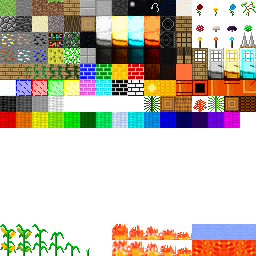
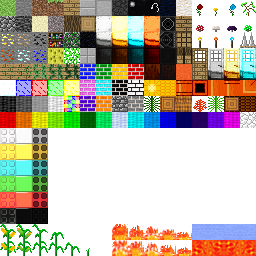
Add 12 new blocks from atlas edits, colored-glass per-pixel alpha + two-pass depth fix, chunk-border remesh fix
New blocks (blocks.json, now 117 total):
- mosaic_glass (4,6), purple/orange/cobble/gray bricks, cobbled_quartz
- 6 plastic blocks with per-face top/side/bottom tiles

Colored glass (translucent flag):
- mesher encodes translucent glass alpha as -200 sentinel (vs -100 regular glass)
- glass FRAME pass (cutout, depth-write ON) occludes water behind opaque pixels
- WATER pass shows through panes
- new _translucentPipeline TINT pass (blend, no depth write, after water) paints
  the semi-transparent glass pixels over the water behind it
- fixes: water over same-chunk glass, then water invisible behind glass (my
  overcorrection), now water visible through panes + tint over water

Chunk-border edit remesh:
- RequestImmediateRemesh now enqueues all 8 flagged dirty neighbours so border
  faces update instantly on break/place instead of waiting for re-stream

diff --git a/Renderer/VeldridRenderer.cs b/Renderer/VeldridRenderer.cs
@@ -41,6 +41,11 @@ namespace CubeApp.Renderer
         // blocking it from ever drawing (which made border water walls render as ghosty
         // see-through when their chunk happened to draw before the terrain behind).
         private Pipeline _transparentPipeline;
+        // Translucent tint pass (colored glass): drawn AFTER water with depth-write OFF. Renders
+        // only the semi-transparent pixels of colored-glass faces (sentinel alpha ~ -200), blending
+        // the glass tint over whatever is behind it - so water behind glass stays visible through
+        // the transparent panes while the opaque frames (drawn in the glass pass) still occlude.
+        private Pipeline _translucentPipeline;
         private Pipeline _highlightPipeline;
         private DeviceBuffer _highlightVertexBuffer;
         private DeviceBuffer _highlightIndexBuffer;
@@ -693,7 +698,9 @@ namespace CubeApp.Renderer
             // E/W 0.6, N/S 0.8) - NOT the mesher's Shade, which bakes in the tiny chunk's simulated
             // light that attenuates by the block's y position and leaves partial shapes looking dark.
             float shade = FaceIconShade(f.Normal);
-            bool cutout = f.Alpha < 0f;       // cross plants / glass: per-pixel sprite alpha
+            // Cutout = per-pixel sprite alpha (cross plants, glass, and translucent colored glass
+            // sentinel -200) so the icon shows the PNG's real transparency.
+            bool cutout = f.Alpha < 0f;
             bool transparent = !cutout && f.Alpha < 1f; // water etc.
             int spanU = Math.Max(1, f.TileWidth);
             int spanV = Math.Max(1, f.TileHeight);
@@ -975,10 +982,12 @@ void main() {
                 Outputs = _sc.Framebuffer.OutputDescription
             });
 
-            // Glass: cutout rules (0.5 alpha discard, no blend) but with depth-write ON so the
-            // frames occlude things drawn later (water behind glass can't paint over the frame),
-            // while the discarded panes leave no depth - far glass/water still shows through the
-            // clear panes. BACK culling so inside faces never render through the panes.
+            // Glass frame pass: cutout rules (0.5 alpha discard, no blend) with depth-write ON so
+            // the opaque frames occlude things drawn later (water behind glass can't paint over the
+            // frame), while the discarded panes leave no depth - water shows through the clear
+            // panes. This pass handles BOTH regular glass and the opaque frame pixels of translucent
+            // colored glass (whose sentinel vColor.a ~ -200 still discards tex.a < 0.5 normally).
+            // BACK culling so inside faces never render through the panes.
             _glassPipeline = factory.CreateGraphicsPipeline(new GraphicsPipelineDescription()
             {
                 BlendState = BlendStateDescription.SingleDisabled,
@@ -987,6 +996,47 @@ void main() {
                 PrimitiveTopology = PrimitiveTopology.TriangleList,
                 ResourceLayouts = new[] { _projViewLayout, _textureLayout, _fogLayout },
                 ShaderSet = cutoutShaderSet,
+                Outputs = _sc.Framebuffer.OutputDescription
+            });
+
+            // Translucent tint pass (colored glass): drawn AFTER water. Only faces with the -200
+            // sentinel (translucent) render here, and only their semi-transparent pixels (tex.a <
+            // 0.5, which the frame pass discarded) - blended per-pixel with depth-write OFF, so the
+            // glass tint paints OVER whatever is behind it (water, terrain) without blocking it.
+            // Regular glass faces (sentinel -100) are culled by the shader and never reach here.
+            string tintFsCode = @"#version 450
+layout(location=0) in vec2 vLocalUV;
+layout(location=1) in vec4 vTileRect;
+layout(location=2) in vec4 vColor;
+layout(location=3) in vec3 vWorldPos;
+layout(set=1, binding=0) uniform sampler2D uAtlas;
+layout(set=2, binding=0) uniform FogParams {
+    vec4 fogColor;
+    vec2 fogRange;
+    vec4 cameraPos;
+};
+layout(location=0) out vec4 outColor;
+void main() {
+    if (vColor.a > -150.0) discard; // only translucent (colored) glass - sentinel ~ -200
+    vec2 atlasUV = fract(vLocalUV) * vTileRect.zw + vTileRect.xy;
+    vec4 tex = texture(uAtlas, atlasUV);
+    if (tex.a >= 0.5) discard;      // opaque frame pixels already drawn by the glass pass
+    outColor = vec4(tex.rgb * vColor.rgb, tex.a);
+    float dist = length(vWorldPos - cameraPos.xyz);
+    float fog = clamp((fogRange.y - dist) / max(fogRange.y - fogRange.x, 1e-5), 0.0, 1.0);
+    outColor.rgb = mix(fogColor.rgb, outColor.rgb, fog);
+}";
+            var tintFsSpirv = SpirvCompilation.CompileGlslToSpirv(tintFsCode, "main", ShaderStages.Fragment, GlslCompileOptions.Default);
+            var tintShaders = factory.CreateFromSpirv(vsDesc, new ShaderDescription(ShaderStages.Fragment, tintFsSpirv.SpirvBytes, "main"));
+            var tintShaderSet = new ShaderSetDescription(new[] { vertexLayout }, new[] { vs, tintShaders[1] });
+            _translucentPipeline = factory.CreateGraphicsPipeline(new GraphicsPipelineDescription()
+            {
+                BlendState = BlendStateDescription.SingleAlphaBlend,
+                DepthStencilState = new DepthStencilStateDescription(true, false, ComparisonKind.LessEqual),
+                RasterizerState = new RasterizerStateDescription(FaceCullMode.Back, PolygonFillMode.Solid, FrontFace.CounterClockwise, true, false),
+                PrimitiveTopology = PrimitiveTopology.TriangleList,
+                ResourceLayouts = new[] { _projViewLayout, _textureLayout, _fogLayout },
+                ShaderSet = tintShaderSet,
                 Outputs = _sc.Framebuffer.OutputDescription
             });
 
@@ -1385,6 +1435,13 @@ void main() {
                 {
                     SortPassBackToFront(_transparentDrawCommands);
                     DrawWorldPass(cl, _transparentDrawCommands, _transparentIndirectScratch, _transparentPipeline);
+                }
+                // Translucent tint (colored glass) draws AFTER water so its semi-transparent pixels
+                // paint over the water/terrain behind it without depth-blocking anything.
+                if (_glassDrawCommands.Count > 0)
+                {
+                    SortPassBackToFront(_glassDrawCommands);
+                    DrawWorldPass(cl, _glassDrawCommands, _glassIndirectScratch, _translucentPipeline);
                 }
             }
 
@@ -2832,6 +2889,7 @@ void main() {
             _cutoutPipeline?.Dispose();
             _glassPipeline?.Dispose();
             _transparentPipeline?.Dispose();
+            _translucentPipeline?.Dispose();
             if (_iconAtlasTexture != null && _imguiRenderer != null) _imguiRenderer.RemoveImGuiBinding(_iconAtlasTexture);
             if (_atlasTexture != null && _imguiRenderer != null) _imguiRenderer.RemoveImGuiBinding(_atlasTexture);
             if (_logoTexture != null && _imguiRenderer != null) _imguiRenderer.RemoveImGuiBinding(_logoTexture);

diff --git a/BlockRegistry.cs b/BlockRegistry.cs
@@ -27,6 +27,7 @@ namespace CubeApp
         private static bool[] _cross = Array.Empty<bool>();
         private static bool[] _cutout = Array.Empty<bool>();
         private static bool[] _glass = Array.Empty<bool>();
+        private static bool[] _translucent = Array.Empty<bool>();
         private static bool[] _slab = Array.Empty<bool>();
         private static bool[] _slabTop = Array.Empty<bool>();
         private static bool[] _stair = Array.Empty<bool>();
@@ -59,6 +60,7 @@ namespace CubeApp
             public double Alpha { get; set; } = 1.0;
             public string? Shape { get; set; }
             public bool Inventory { get; set; } = true;
+            public bool Translucent { get; set; } = false;
             public int LightEmission { get; set; } = 0;
             public string? MapColor { get; set; } = "#000000";
         }
@@ -100,6 +102,7 @@ namespace CubeApp
                     Alpha = (float)dto.Alpha,
                     Shape = dto.Shape ?? "",
                     Inventory = dto.Inventory,
+                    Translucent = dto.Translucent,
                     LightEmission = dto.LightEmission,
                     MapColor = ParseMapColor(dto.MapColor ?? "#000000"),
                 };
@@ -127,6 +130,7 @@ namespace CubeApp
             _cross = new bool[Count];
             _cutout = new bool[Count];
             _glass = new bool[Count];
+            _translucent = new bool[Count];
             _slab = new bool[Count];
             _slabTop = new bool[Count];
             _stair = new bool[Count];
@@ -142,6 +146,7 @@ namespace CubeApp
                 _cross[i] = string.Equals(defs[i].Shape, "cross", StringComparison.OrdinalIgnoreCase);
                 _cutout[i] = _cross[i] || string.Equals(defs[i].Shape, "cutout", StringComparison.OrdinalIgnoreCase);
                 _glass[i] = string.Equals(defs[i].Shape, "glass", StringComparison.OrdinalIgnoreCase);
+                _translucent[i] = defs[i].Translucent;
                 _slab[i] = string.Equals(defs[i].Shape, "slab", StringComparison.OrdinalIgnoreCase);
                 _slabTop[i] = string.Equals(defs[i].Shape, "slab_top", StringComparison.OrdinalIgnoreCase);
                 _stair[i] = string.Equals(defs[i].Shape, "stairs", StringComparison.OrdinalIgnoreCase);
@@ -204,6 +209,7 @@ namespace CubeApp
         public static bool IsCross(int id) => id > 0 && id < Count && _cross[id];
         public static bool IsCutout(int id) => id > 0 && id < Count && _cutout[id];
         public static bool IsGlass(int id) => id > 0 && id < Count && _glass[id];
+        public static bool IsTranslucent(int id) => id > 0 && id < Count && _translucent[id];
         public static bool IsSlab(int id) => id > 0 && id < Count && _slab[id];
         public static bool IsSlabTop(int id) => id > 0 && id < Count && _slabTop[id];
         public static bool IsStair(int id) => id > 0 && id < Count && _stair[id];

diff --git a/MeshScheduler.cs b/MeshScheduler.cs
@@ -54,6 +54,35 @@ namespace CubeApp
             chunk.NeedsRemesh = true;
             chunk.IsMeshingQueued = true;
             _meshWorker.EnqueuePriority(coords);
+
+            // A block edit also affects the faces of the four cardinal neighbours (and the four
+            // diagonal neighbours at a chunk corner) that share the edited cell's border: the
+            // mesher culls border faces against the neighbour's blocks, and the water pass samples
+            // the 2x2 corner neighbourhood. MarkDirty already set NeedsRemesh on those neighbours,
+            // but nothing was ENQUEUING them - so a face touching the border stayed stale until the
+            // neighbour happened to be re-streamed. Enqueue any flagged border neighbours now so
+            // broken faces disappear and placed faces appear immediately.
+            int cx = coords.X;
+            int cz = coords.Z;
+            EnqueueIfDirty(new ChunkCoordinates(cx - 1, cz));
+            EnqueueIfDirty(new ChunkCoordinates(cx + 1, cz));
+            EnqueueIfDirty(new ChunkCoordinates(cx, cz - 1));
+            EnqueueIfDirty(new ChunkCoordinates(cx, cz + 1));
+            EnqueueIfDirty(new ChunkCoordinates(cx - 1, cz - 1));
+            EnqueueIfDirty(new ChunkCoordinates(cx + 1, cz - 1));
+            EnqueueIfDirty(new ChunkCoordinates(cx - 1, cz + 1));
+            EnqueueIfDirty(new ChunkCoordinates(cx + 1, cz + 1));
+        }
+
+        // Enqueues a neighbour for an immediate remesh if it is loaded AND was flagged dirty by the
+        // edit (MarkDirty set NeedsRemesh on it). Priority so the border face updates with the edit.
+        private void EnqueueIfDirty(ChunkCoordinates coords)
+        {
+            if (_manager.TryGetLoadedChunk(coords, out var chunk) && chunk.NeedsRemesh)
+            {
+                chunk.IsMeshingQueued = true;
+                _meshWorker.EnqueuePriority(coords);
+            }
         }
 
         public void Dispose() { }

diff --git a/Mesher.cs b/Mesher.cs
@@ -766,7 +766,12 @@ namespace CubeApp
                     //                                  alpha-test, depth-write OFF, front-side)
                     var src = BlockRegistry.FaceTexture(entryType, axisNormal);
                     float alpha = BlockRegistry.Alpha(entryType);
-                    if (BlockRegistry.IsGlass(entryType)) alpha = -alpha - 100f;
+                    // Translucent (colored glass): sentinel alpha of -alpha - 200 routes to the GLASS
+                    // bucket (alpha < -10) so it draws with depth-write ON before water - its opaque
+                    // pixels occlude water behind it like regular glass. The shader branches on the
+                    // -200 offset to use the ATLAS PNG's per-pixel alpha instead of the cutout rule.
+                    if (BlockRegistry.IsTranslucent(entryType)) alpha = -alpha - 200f;
+                    else if (BlockRegistry.IsGlass(entryType)) alpha = -alpha - 100f;
                     else if (BlockRegistry.IsCutout(entryType)) alpha = -alpha;
                     mesh.Add(new MeshFace(corners[0], corners[1], corners[2], corners[3], src, axisNormal, blockPos, (float)brightness, tileWidth, tileHeight, alpha));
 

diff --git a/BlockDefinition.cs b/BlockDefinition.cs
@@ -40,6 +40,10 @@ namespace CubeApp
         /// <summary>Whether the block shows up in the E-menu inventory. Placement-only variants
         /// (like the auto-picked top slabs) set this false.</summary>
         public bool Inventory { get; set; } = true;
+        /// <summary>Per-pixel translucent (colored glass): the atlas texture's OWN alpha is used for
+        /// blending per fragment instead of the block's uniform vColor.a. Regular glass uses the
+        /// cutout pipeline (0.5 discard, no blend).</summary>
+        public bool Translucent { get; set; } = false;
         /// <summary>Reserved for block-light emission (torches, glowstone). 0..15, currently unused.</summary>
         public int LightEmission { get; set; }
         /// <summary>Hotbar / debug swatch colour, an ImGui packed U32 (0xAABBGGRR, full alpha).</summary>

diff --git a/.opencode/SESSION-MEMORY.md b/.opencode/SESSION-MEMORY.md
@@ -96,4 +96,8 @@ Run target: `bin\Debug\net9.0-windows\win-x64\CubeApp.exe` — the `bin\Debug\ne
 - The monoliths come from the terrain noise spike — NOT a bug to fix. This is the authentic Infdev experience. DO NOT "fix" it. If anything, document/preserve it.
 - Icons/GUI: all block icons now software-render the REAL mesher output (Mesher.GenerateMesh on a tiny 16x16x16 chunk, block at (8,8,8)) into 48px cells — single source of truth, no hardcoded shape variants. Studio lighting (Infdev face multipliers top 1.0/bottom 0.5/E+W 0.6/N+S 0.8), GPU-exact face-axis UVs, isometric projection `sx = 10.5 + 13.5*x + 13.5*z, sy = 30.75 + 6.75*x - 6.75*z - 19.5*y`, painter's sort DESCENDING by depth key (-cx+cz-cy, larger = farther, far first). Cross plants = flat sprite. Stairs forced to meta 1 (low step toward viewer).
 - **Player water physics = Cubuild feel (8/5, user-verified "good for now")**: ported Cubuild.html's `updatePlayerPhysics` instead of Infdev's floaty damped model (Infdev version felt "off" — its 0.02/tick accel wasn't tick-converted on my first pass, then the closed-form targets 1.6/-2.0/+1.2 blocks/s were faithful but sluggish; user chose Cubuild). Cubuild: horizontal = INSTANT wish * (WALK_SPEED * 0.42) ≈ 1.8 blocks/s; vertical = per-frame drag 0.96 (pow'd by dt*60) + depth-scaled gravity `GRAVITY * max(0.16, 0.42 - submerged*0.20)`; holding Space = hard lift `max(vel.y, JUMP_SPEED * (bodyInWater ? 0.58 : 0.7))`. Water sampling via `PlayerSampleInWater(offset)` at feet +0.05 / body +height*0.4 / head +height*0.85 (Cubuild's exact offsets; feet = eye - EyeHeight). `submerged` = 0.25/0.5/0.25. No wall-climb-out boost (Cubuild has none). Old `IsPlayerInWater`/`IsBlockLiquidAt`/`PlayerHitWallHorizontal` removed.
+- **New blocks from user atlas edits (8/5)**: user edited terrain.png in Paint.NET and added `newblockslist.txt` on the Desktop mapping new tiles. Added 12 blocks to blocks.json (total 117): `mosaic_glass` (4,6, glass), `purple_bricks` (5,6), `orange_bricks` (6,6), `cobble_bricks` (7,6), `gray_bricks` (8,6), `cobbled_quartz` (15,7), and 6 plastic blocks with per-face top/side/bottom: white (top 0,8/side 1,8/bottom 2,8), yellow (0,9/1,9/2,9), blue (0,10/1,10/2,10), green (0,11/1,11/2,11), red (0,12/1,12/2,12), black (0,13/1,13/2,13).
+- **Colored glass per-pixel alpha + depth fix (8/5)**: colored glass (`blue_glass`/`red_glass`/`green_glass`/`yellow_glass`/`mosaic_glass`) now has `"translucent": true` in blocks.json → `BlockRegistry.IsTranslucent` → mesher encodes alpha as `-alpha - 200f` sentinel (regular glass is `-alpha - 100f`). BOTH route to the GLASS bucket (alpha < -10, drawn before water with depth-write ON). Rendering is THREE relevant passes: glass FRAME pass (cutout 0.5 discard, depth-write ON, opaque pixels occlude water behind) → WATER pass (no depth write, shows through panes) → `_translucentPipeline` TINT pass (blend, depth-write OFF, drawn AFTER water, shader discards `vColor.a > -150` (only -200 sentinels) and `tex.a >= 0.5`, blends tex.a per-pixel so the glass tint paints OVER the water behind it). This fixes BOTH bugs: water was previously painting over same-chunk glass (transparent bucket ordering), then my first fix made water invisible behind glass (writing depth for all glass pixels). The two-pass split (frame depth-write + tint blend after water) gives: water visible through panes, frame occludes water, tint shows over water.
+- **Chunk-border edit remesh fix (8/5)**: breaking/placing a block at a chunk border left the neighbor's border face stale until the neighbor happened to be re-streamed. Root cause: `MarkDirty` set the neighbor's `NeedsRemesh = true`, but `RequestImmediateRemesh` only enqueued the EDITED chunk into the mesh worker — the neighbor's flag sat until the background `MeshScheduler.Update()` scan (chunk-streaming driven). Fix: `MeshScheduler.RequestImmediateRemesh` now also enqueues all 8 surrounding neighbors (4 cardinal + 4 diagonal) that are loaded AND flagged dirty, via `EnqueueIfDirty`, with priority. Border faces update instantly on edit.
+
 
